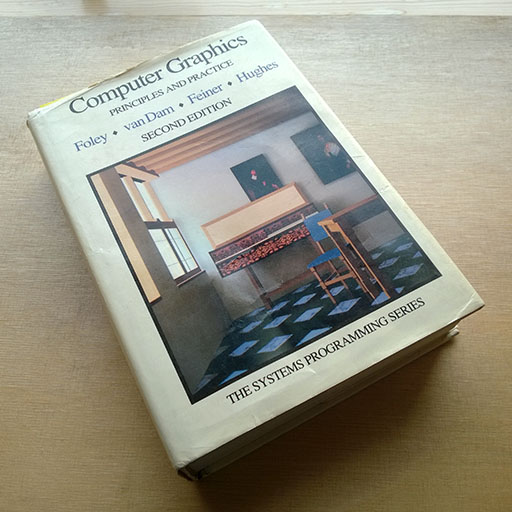
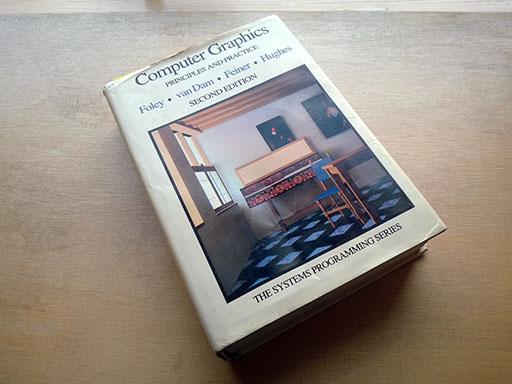
Added details about FvDFH comp graph book

diff --git a/teaching/compgraph.html b/teaching/compgraph.html
@@ -58,6 +58,17 @@
         </aside>
 
         <article>
+          <h2>Textbook</h2>
+          <p>I recommend <i>Computer graphics: principles and practice</i> &ndash; Foley, J.D., van Dam, A., Feiner, S.K. &amp; Hughes, J.F. (1990) [FvDFH], as it covers the course's core 2D rendering algorithms and provides interesting additional details.</p>
+          <p>Perhaps more importantly, second hand versions can be purchased cheaply (&lt; £5) online on <i>Ebay</i> or similar. Though some discussion in the older version is a bit dated, the algorithms have remained the same.</p>
+        </article>
+
+        <aside>
+          <h2>FvDFH front cover</h2>
+          <img src="/img/compgraph_book.jpg">
+        </aside>
+
+        <article>
           <h1>Supervision work</h1>
           <p>Please complete the following <a href="http://www.cl.cam.ac.uk/teaching/1314/CompGraph/exercises.html">supervision exercises</a> and <a href="http://www.cl.cam.ac.uk/teaching/exams/pastpapers/t-ComputerGraphicsandImageProcessing.html">past papers</a>:</p>
           <p>I strongly encourage you to do as many practical exercises as possible, as algorithms are frequently examined and there is no better way to learn them than to code them yourself!</p>
